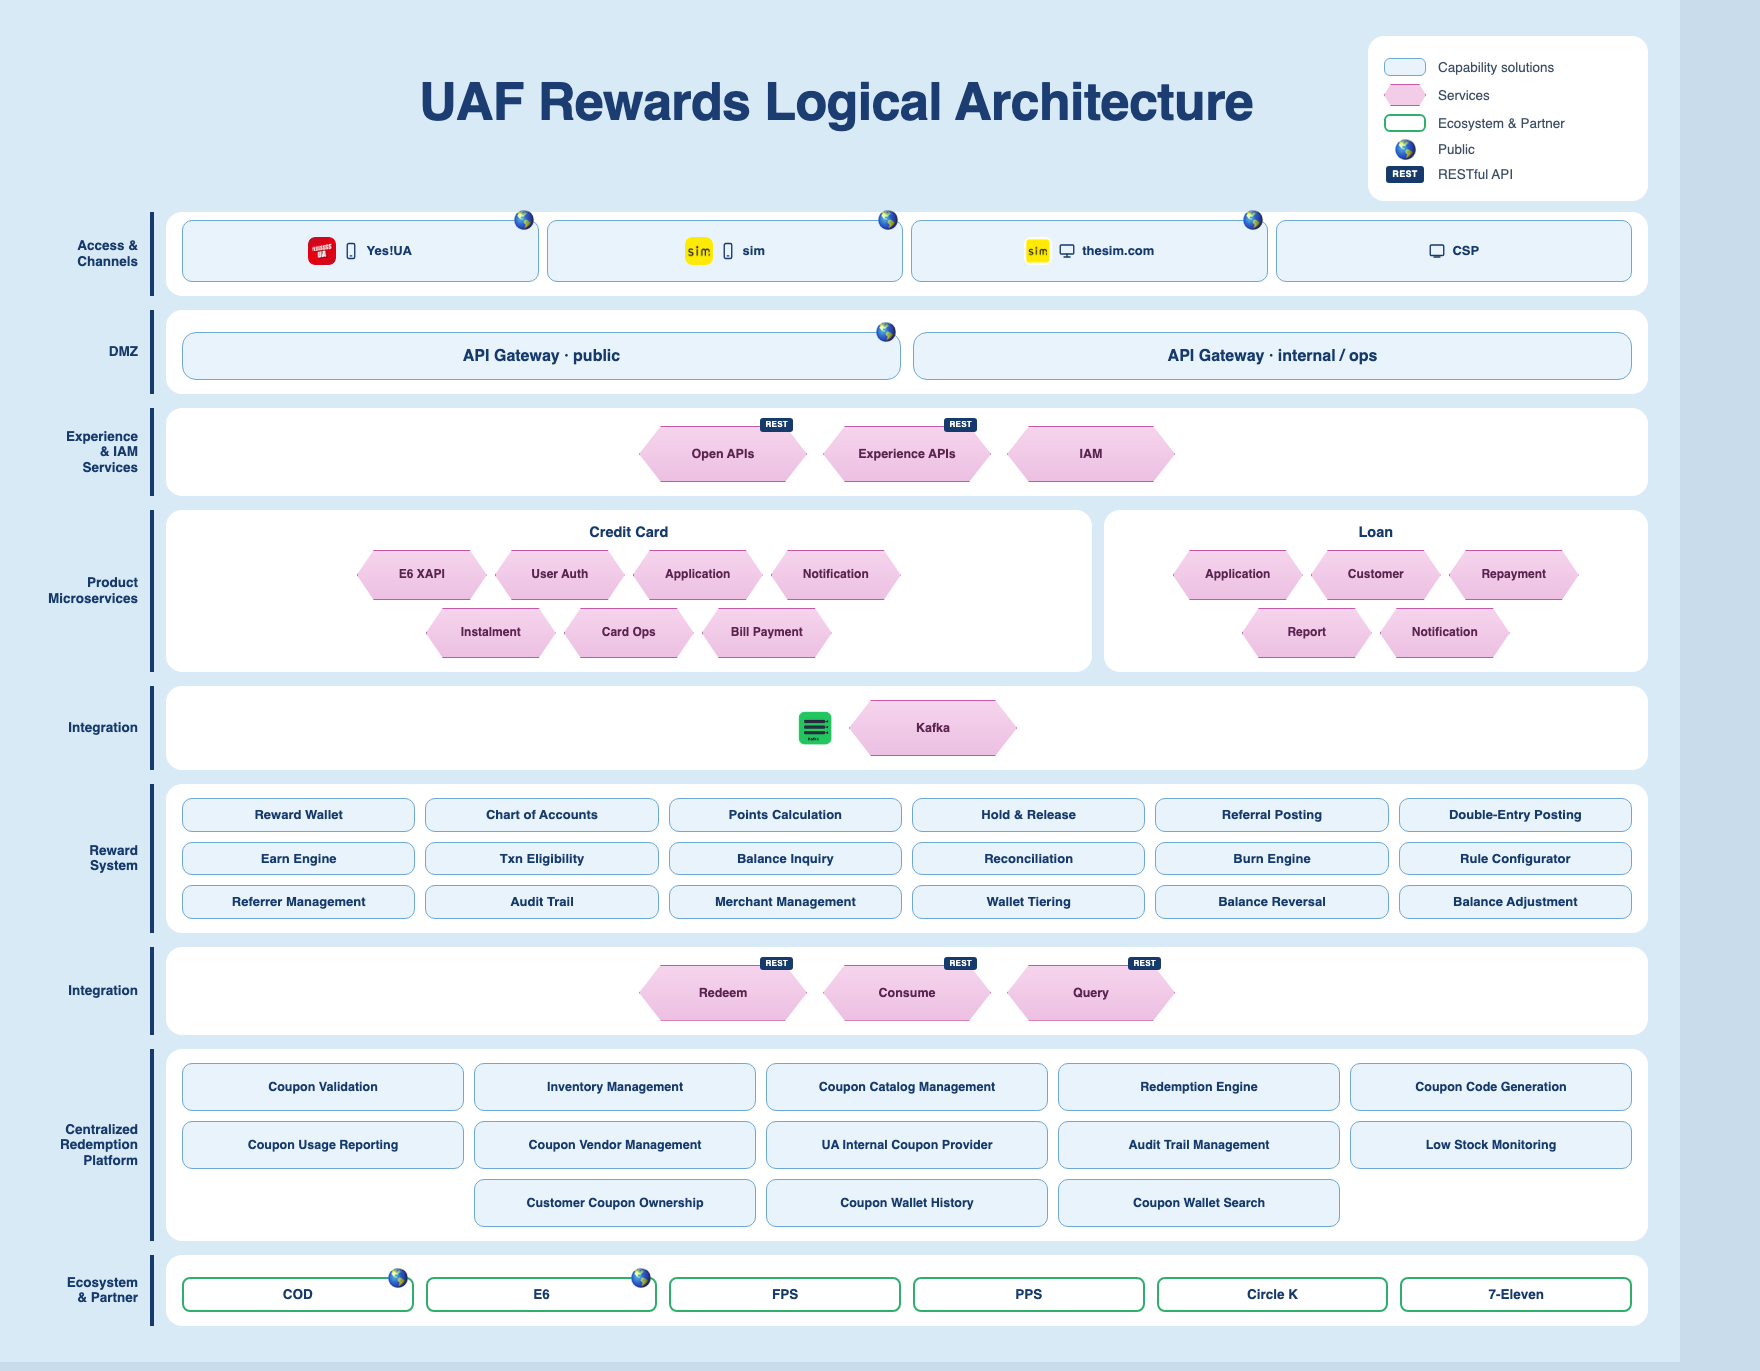
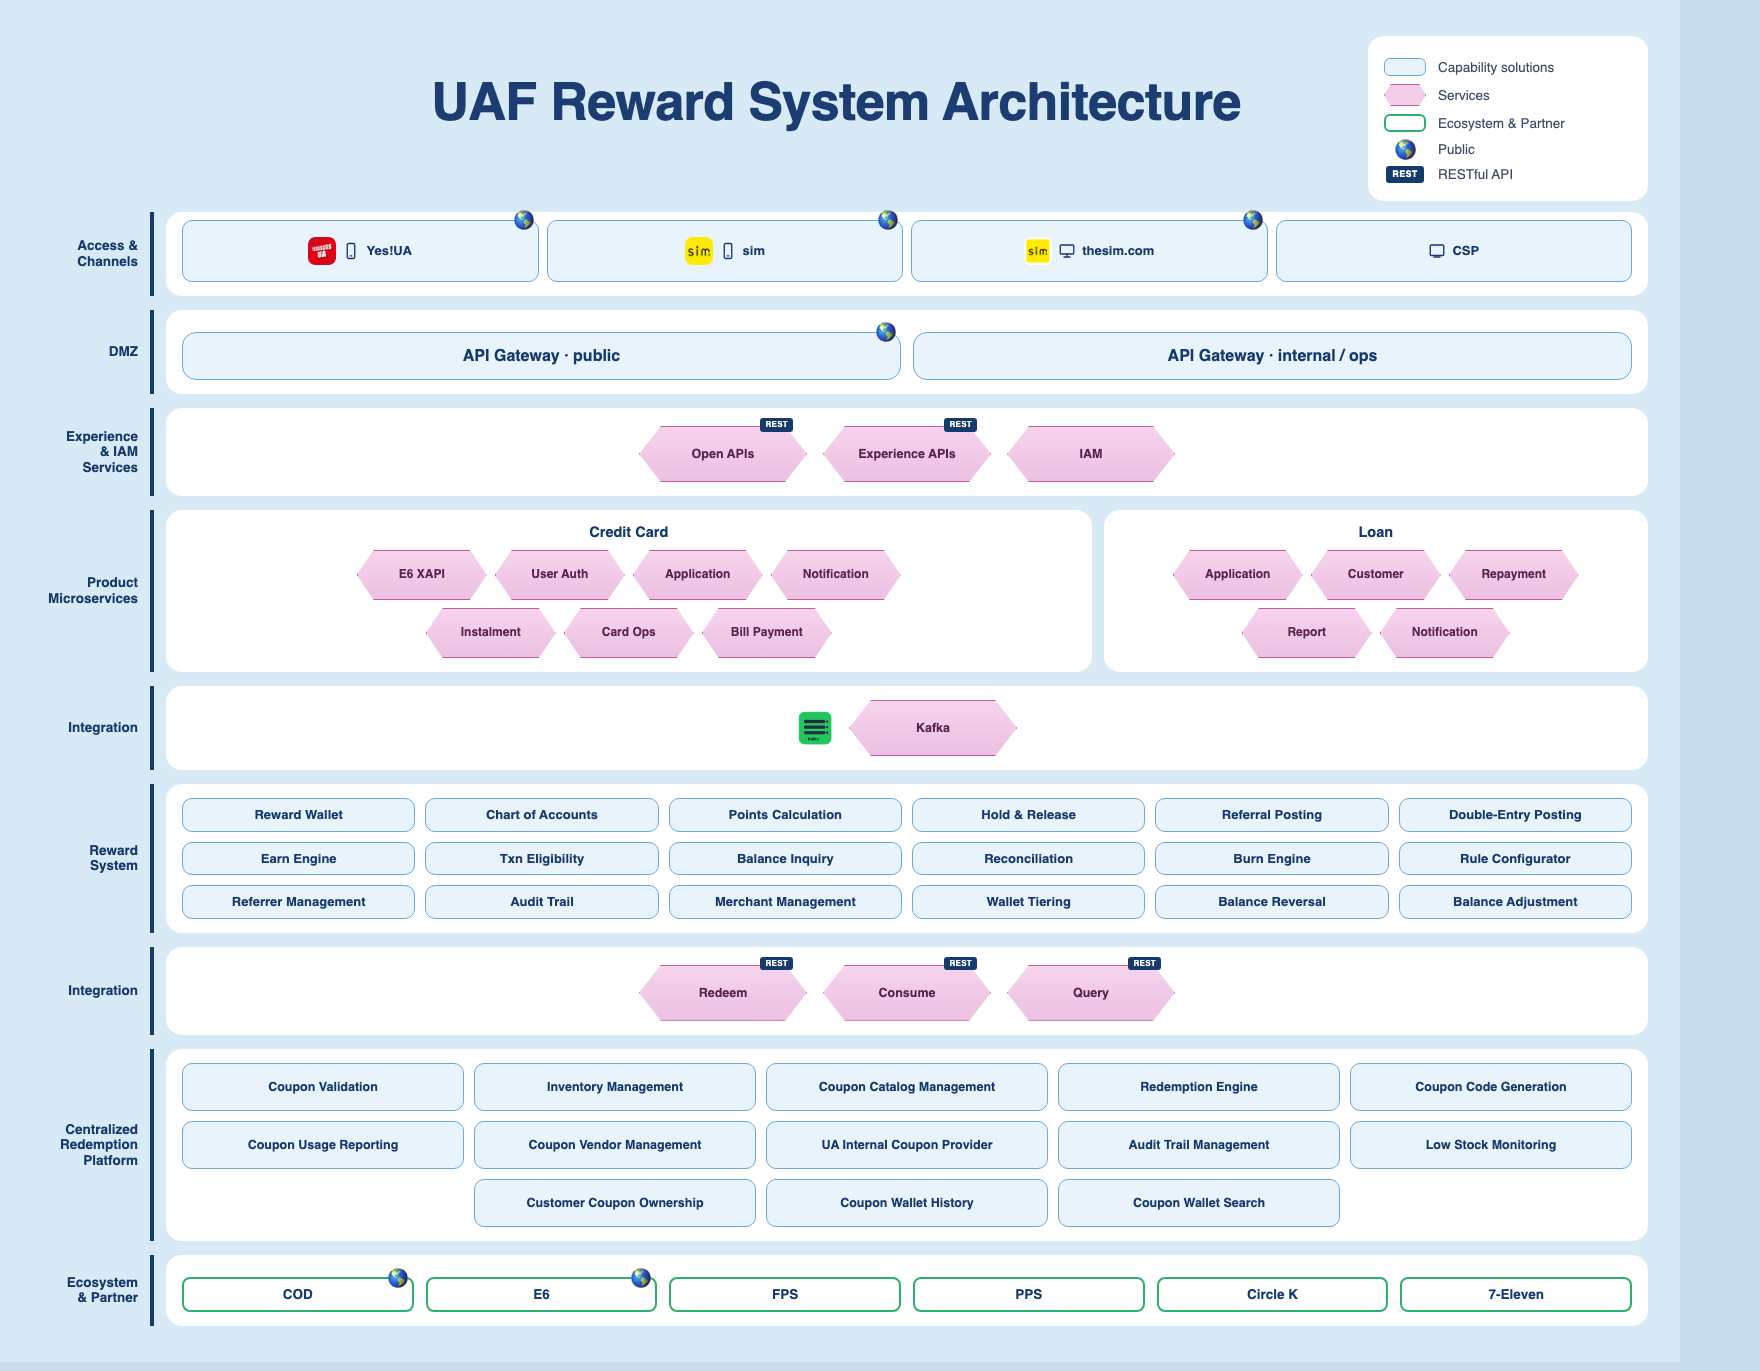
docs(decks): title → UAF Reward System Architecture

Changed region(s): [[0.2188, 0.0613, 0.7188, 0.0919]]

diff --git a/docs/decks/uaf-rewards-logical-architecture.html b/docs/decks/uaf-rewards-logical-architecture.html
@@ -2,7 +2,7 @@
 <html lang="en">
 <head>
 <meta charset="UTF-8"/>
-<title>UAF Rewards Logical Architecture</title>
+<title>UAF Reward System Architecture</title>
 <link href="https://fonts.googleapis.com/css2?family=Source+Sans+3:wght@600;700;800&display=swap" rel="stylesheet">
 <style>
   *{box-sizing:border-box;margin:0;padding:0}
@@ -95,7 +95,7 @@
 <body>
 <div class="poster">
   <div class="head">
-    <h1>UAF Rewards Logical Architecture</h1>
+    <h1>UAF Reward System Architecture</h1>
     <div class="legend">
       <div class="li"><div class="lg-cap"></div><span>Capability solutions</span></div>
       <div class="li"><div class="lg-svc"></div><span>Services</span></div>
